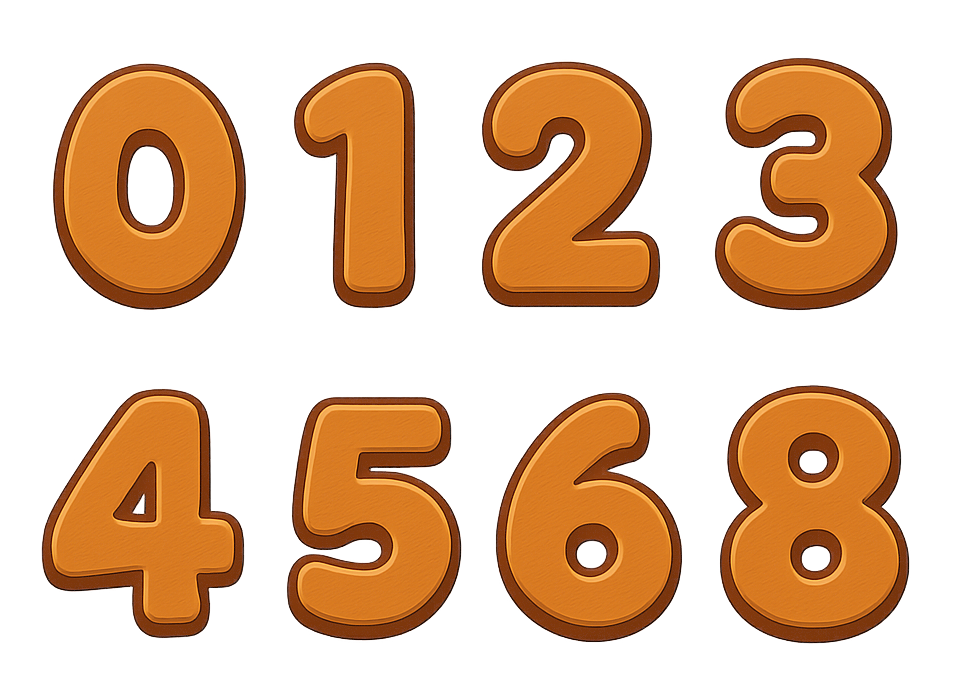
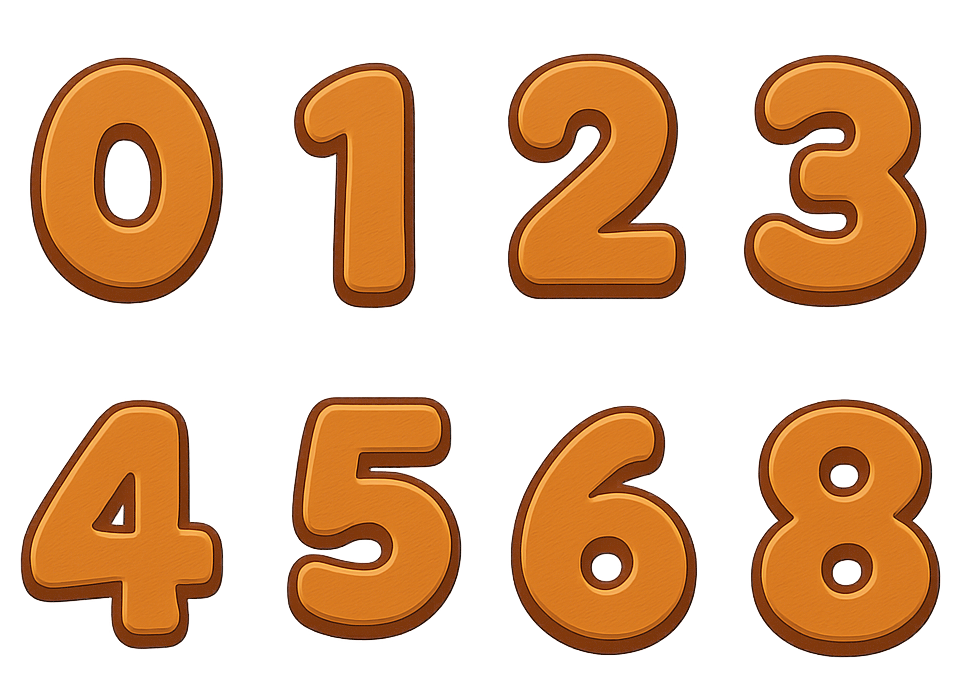
Ok Boss

diff --git a/Src/UI/Enemy/EnemyCount.cpp b/Src/UI/Enemy/EnemyCount.cpp
@@ -41,7 +41,11 @@ bool EnemyCount::Init(const std::string& _master)
 	uiM.Add(SkeltonConterStr_, rsM.Load(ResourceManager::SRC::SKELTON_IMG).handleId_, UIManager2d::UI_DIRECTION_2D::NOMAL, UI_DIMENSION::DIMENSION_2);
 	uiM.SetUIInfo(SkeltonConterStr_, iconPos, SCALE_SKEL);
 
+	golemIcon_ = rsM.Load(ResourceManager::SRC::GOLEM_IMG).handleId_;
+
 	update_ = &EnemyCount::NomalUpdate;
+
+
 	return true;
 }
 
@@ -68,6 +72,12 @@ void EnemyCount::SetNumImg(int _img)
 {
 	UIManager2d& uiM = UIManager2d::GetInstance();
 	uiM.SetImage(numberStr_, _img);
+}
+
+void EnemyCount::SetIconImg(void)
+{
+	UIManager2d& uiM = UIManager2d::GetInstance();
+	uiM.SetImage(SkeltonConterStr_, golemIcon_);
 }
 
 void EnemyCount::Action(void)

diff --git a/Src/UI/Enemy/EnemyCount.h b/Src/UI/Enemy/EnemyCount.h
@@ -21,6 +21,7 @@ public:
 	void Reset(void)override;
 
 	void SetNumImg(int _img);
+	void SetIconImg(void);
 	void Action(void);
 	
 private:
@@ -39,5 +40,7 @@ private:
 	using Update_f = void(EnemyCount::*)(void);
 	Update_f update_;
 	Update_f actionUpdate_;
+
+	int golemIcon_;
 };
 

diff --git a/Src/Manager/GameSystem/EnemyManager.cpp b/Src/Manager/GameSystem/EnemyManager.cpp
@@ -255,6 +255,7 @@ void EnemyManager::CreateBoss(void)
 	enemyCnt_++;
 
 	counterUI_->SetNumImg(numImg_[enemyCnt_]);
+	counterUI_->SetIconImg();
 }
 
 void EnemyManager::BossShout(void)

diff --git a/Src/Manager/Generic/ResourceManager.h b/Src/Manager/Generic/ResourceManager.h
@@ -29,6 +29,7 @@ public:
 		ANNOUNCE_LOCKON_IMG,
 		PLATE_IMG,
 		SKELTON_IMG,
+		GOLEM_IMG,
 		NUMBER_IMGS,
 		WARNING_IMG,
 
